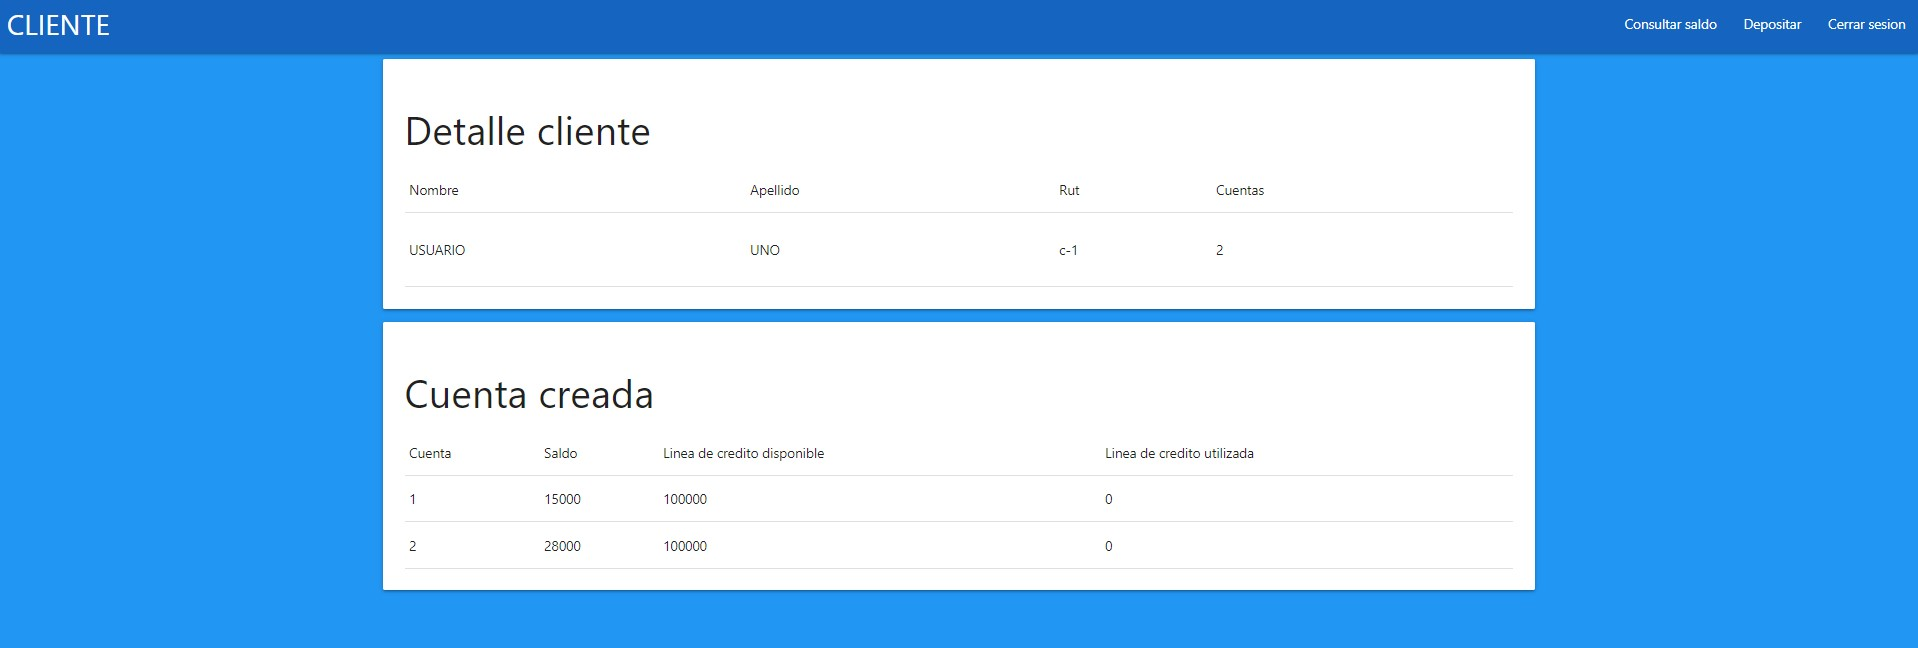
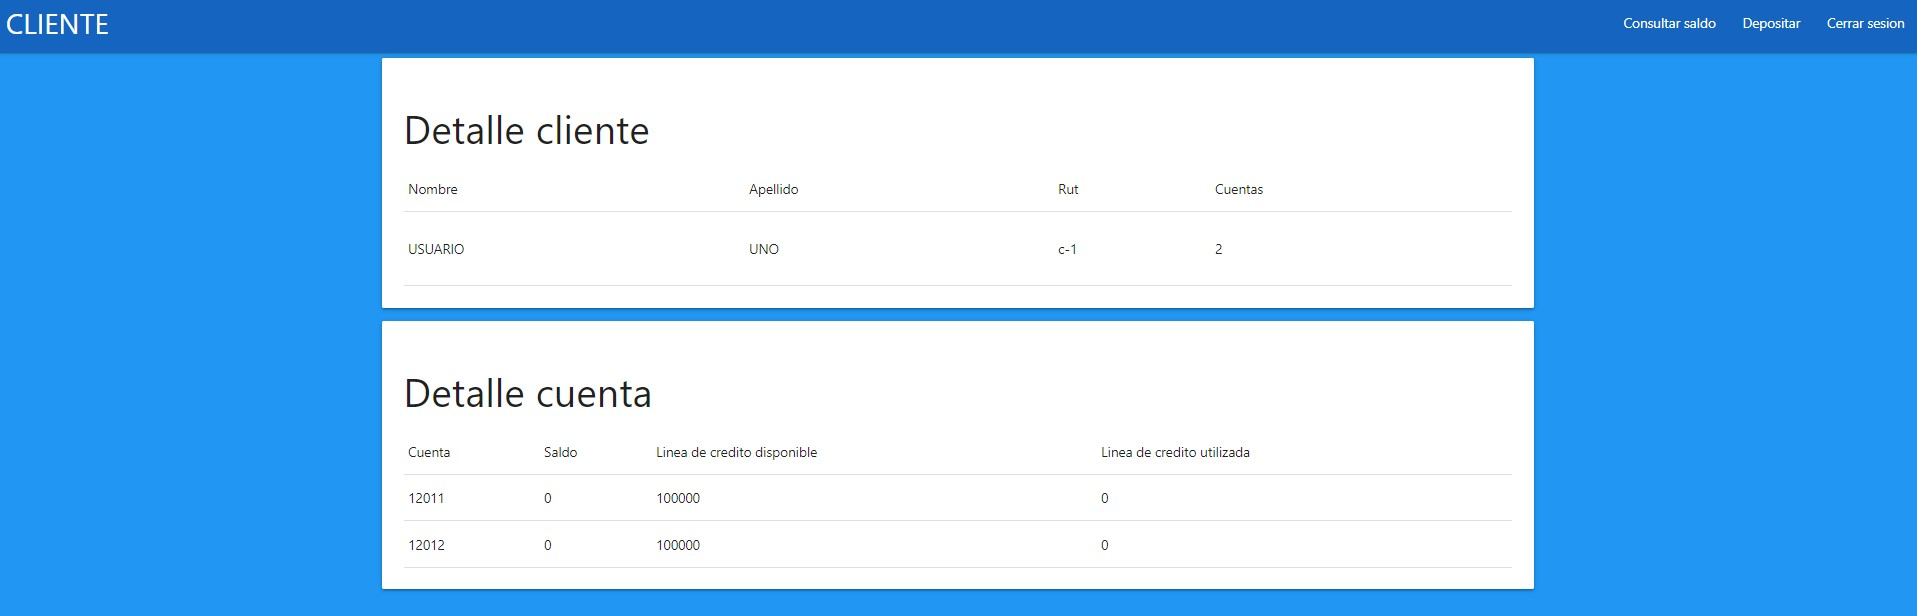
Se agrega imagen actualizada de consultar saldo

diff --git a/src/main/resources/templates/consultar_saldo.html b/src/main/resources/templates/consultar_saldo.html
@@ -51,7 +51,7 @@
 </div>
 <div class="container">
     <div class="card-panel">
-        <h3>Cuenta creada</h3>
+        <h3>Detalle cuenta</h3>
         <table>
             <tr>
                 <td>Cuenta</td>
